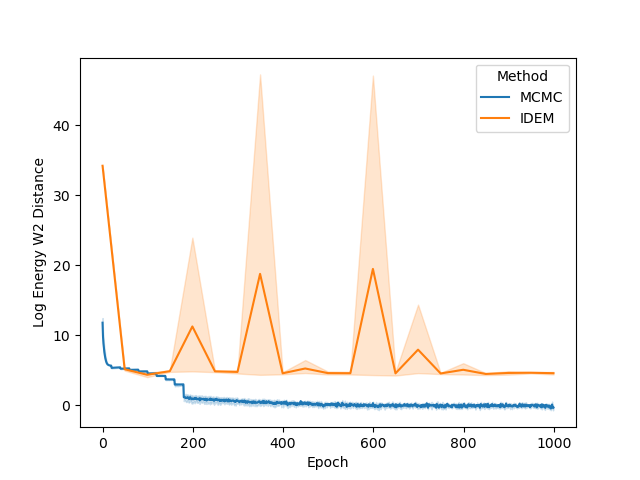
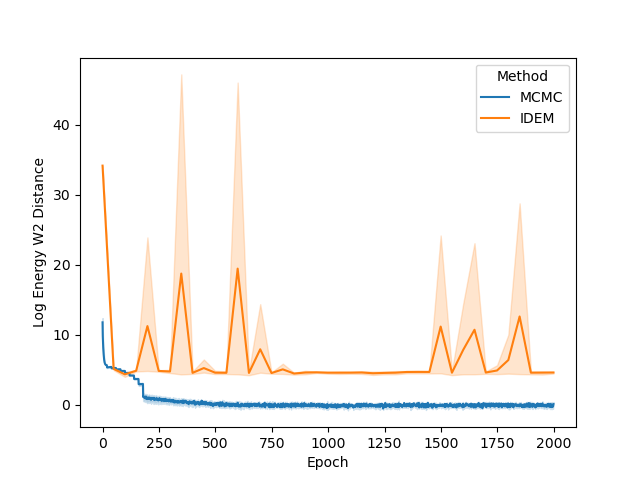
fix typos, add some lj55 data

diff --git a/_posts/2025-04-28-ebm-vs-mcmc.md b/_posts/2025-04-28-ebm-vs-mcmc.md
@@ -1,7 +1,7 @@
 ---
 layout: distill
 title: "Models trained with unnormalized density functions: A need for a course correction"
-description: Training a generative model with energy or unnormalized density functions is considered an important problem for physical systems such as molecules. This provides a path to train generative models to sample from the much desired Boltzmann distribution in situations of data scarcity. As of late, several generative frameworks have been proposed to target this problem. However, as we show in the following blog post, these methods have not been benchmarked sufficiently well against traditional Markov Chain Monte Carlo (MCMC) methods that are used to sample from energy functions. We take the example of two recent methods (IDEM and IEFM) and show that MCMC outperforms both methods in terms of number of energy evaluations and wall clock time on established baselines. With this, we suggest a “course correction” on the benchmarking of these models and comment on the utility and potential of generative models on these tasks. 
+description: Training a generative model with energy or unnormalized density functions is considered an important problem for physical systems such as molecules. This provides a path to train generative models to sample from the much desired Boltzmann distribution in situations of data scarcity. As of late, several generative frameworks have been proposed to target this problem. However, as we show in the following blog post, these methods have not been benchmarked sufficiently well against traditional Markov Chain Monte Carlo (MCMC) methods that are used to sample from energy functions. We take the example of two recent methods (iDEM and iEFM) and show that MCMC outperforms both methods in terms of number of energy evaluations and wall clock time on established baselines. With this, we suggest a “course correction” on the benchmarking of these models and comment on the utility and potential of generative models on these tasks. 
 date: 2025-04-28
 future: true
 htmlwidgets: true
@@ -62,15 +62,15 @@ Molecular dynamics (MD) simulations can sample the conformational dynamics of mo
 
 {% twitter https://x.com/adrian_roitberg/status/1793676191620018398 %}
 
-Yes that’s right, we know that for physical systems (molecules), the distribution of states (conformers) are characterized by their energy according the boltzmann distribution $$p(x) \propto exp(-\beta (E(x)))$$, where $$E(x)$$ is the energy of the state and $$\beta$$ is a constant dependant on temperature. This motivates a paradigm of training generative models that can take advantage of the energy function. 
+Yes that’s right, we know that for physical systems (molecules), the distribution of states (conformers) are characterized by their energy according the boltzmann distribution $$p(x) \propto exp(-\beta (\mathcal{E}(x)))$$, where $$\mathcal{E}(x)$$ is the energy of the state and $$\beta$$ is a constant dependant on temperature. This motivates a paradigm of training generative models that can take advantage of the energy function. 
 
-Recently, a surge of deep learning generative models has aimed to address the challenges of sampling and data scarcity by adopting innovative, data-free approaches <d-cite key="midgley2023fab"></d-cite><d-cite key="vargas2023dds"></d-cite><d-cite key="zhang2022pis"></d-cite><d-cite key="sadegh2024idem"></d-cite><d-cite key="woo2024iefm"></d-cite>. These methods, which one may describe as 'self-generative,' leverage a bootstrap procedure whereby the models generate their own data and rely on access to the energy function to refine their predictions. This paradigm is particularly exciting because it bypasses the traditional reliance on large datasets, making it a promising solution to long-standing barriers in the field. For this assessment, we focus on two such methods: iterative energy-based flow matching (iEFM)<d-cite key="woo2024iefm"></d-cite> and iterative denoising energy matching (iDEM)  <d-cite key="sadegh2024idem"></d-cite> that have shown state of the art performance on several toy physical systems.
+Recently, a surge of deep learning generative models has aimed to address the challenges of sampling and data scarcity by adopting innovative, data-free approaches<d-cite key="midgley2023fab"></d-cite><d-cite key="vargas2023dds"></d-cite><d-cite key="zhang2022pis"></d-cite><d-cite key="sadegh2024idem"></d-cite><d-cite key="woo2024iefm"></d-cite>. These methods, which one may describe as 'self-generative,' leverage a bootstrap procedure whereby the models generate their own data and rely on access to the energy function to refine their predictions. This paradigm is particularly exciting because it bypasses the traditional reliance on large datasets, making it a promising solution to long-standing barriers in the field. For this assessment, we focus on two such methods: iterative energy-based flow matching (iEFM)<d-cite key="woo2024iefm"></d-cite> and iterative denoising energy matching (iDEM)<d-cite key="sadegh2024idem"></d-cite> that have shown state of the art performance on several toy physical systems.
 
-A key consideration to take into account with generative models is to check if they outperform traditional methods for sampling from unnormalized density (energy) functions like Markov Chain Monte Carlo (MCMC). In this work, we compare IDEM and iEFM to MCMC on the same physical systems they were tested on and show that MCMC outperforms both methods while taking the same number of queries from the energy function. With this result, we suggest a “course correction” on the benchmarking of these models and propose different avenues where the development of these generative models would be useful.
+A key consideration to take into account with generative models is to check if they outperform traditional methods for sampling from unnormalized density (energy) functions like Markov Chain Monte Carlo (MCMC). In this work, we compare iDEM and iEFM to MCMC on the same physical systems they were tested on and show that MCMC outperforms both methods while taking the same number of queries from the energy function. With this result, we suggest a “course correction” on the benchmarking of these models and propose different avenues where the development of these generative models would be useful.
 
 ## Same Goals, Different Paths: Comparing iEFM and iDEM
 
-iEFM and iDEM are quite similar in their implementation. Both approximate a target vector field via self-normalized importance weights calculated by Monte Carlo estimation. In the case of iEFM, the target vector is a weighted average of the analytical vector field derived from Flow Matching theory. Whereas in iDEM, the target score field is computed as a weighted average of the gradients of the energy function. Note in the following equations that the equilibrium samples $x_T$ are denoted $x_1$ (T=1) for iEFM and $x_0$ (T=0) for iDEM:
+iEFM and iDEM are quite similar in their implementation. Both approximate a target vector field via self-normalized importance weights calculated by Monte Carlo estimation. In the case of iEFM, the target vector is a weighted average of the analytical vector field derived from Flow Matching theory. Whereas in iDEM, the target score field is computed as a weighted average of the gradients of the energy function. Note in the following equations that the equilibrium samples $x_T$ are denoted $x_1$ ($T=1$) for iEFM and $x_0$ ($T=0$) for iDEM:
 
 
 
@@ -105,7 +105,7 @@ To generate samples for the test systems with MCMC, we follow a 2 step procedure
 
 MCMC steps are implemented as simple Metropolis Monte Carlo steps with a symmetric Gaussian proposal. The step sizes for the MCMC chains are decided by trying to maximize the value $\alpha*s$, where $\alpha$ is the acceptance rate and $s$ is the standard deviation of the gaussian proposal function.
 
-SMC generates samples from a target density $p_T$ by creating a sequence of intermediate distributions that transition smoothly from the prior $p_0$ to $p_T$. At each step, samples are updated using a short MCMC chain (M steps), reweighted to match the next intermediate density, and resampled to maintain particle diversity. The intermediates are typically constructed through linear interpolation between the unnormalized log-density functions of $p_0$ and $p_T$, enabling a gradual and efficient transformation of the samples toward the target distribution. The detailed algorithm for the same is shown in the algorithm block below.
+SMC generates samples from a target density $p_T$ by creating a sequence of intermediate distributions that transition smoothly from the prior $p_0$ to $p_T$. At each step, samples are updated using a short MCMC chain ($M$ steps), reweighted to match the next intermediate density, and resampled to maintain particle diversity. The intermediates are typically constructed through linear interpolation between the unnormalized log-density functions of $p_0$ and $p_T$, enabling a gradual and efficient transformation of the samples toward the target distribution. The detailed algorithm for the same is shown in the algorithm block below.
 
 <div class="row mt-3">
     <div class="col-sm mt-3 mt-md-0">
@@ -134,20 +134,20 @@ The most challenging benchmarks are two Lennard-Jones (LJ) systems that model in
 Ground truth data for each system was generated using the following procedures:
 
 * (GMM) The test set consists of 1000 samples generated directly from the known mixture distribution using TORCH.RANDOM.SEED(0). Since this is a well-defined mixture of Gaussians, true samples can be generated exactly without approximation.  
-* (DW4) The ground truth data comes from MCMC samples provided by Klein et al. (2023) <d-cite key="klein2023equivariantflowmatching"></d-cite>. The paper explicitly notes that while this might not be perfect ground truth, it's considered reasonable for evaluation purposes. They specifically mention avoiding using an older dataset from Garcia Satorras et al. (2021) <d-cite key="satorras2022enequivariantgraphneural"></d-cite> because it was biased, being generated from a single MCMC chain.  
-* (LJ) Like DW-4, these systems use MCMC samples from Klein et al. (2023) as ground truth. The paper again notes they deliberately avoided using earlier datasets from Garcia Satorras et al. (2021) because these were biased, being generated from single MCMC chains and using only half of the energy function (ELJ/2, as the sum was only calculated for i \< j).
+* (DW4) The ground truth data comes from MCMC samples provided by Klein et al. (2023)<d-cite key="klein2023equivariantflowmatching"></d-cite>. The paper explicitly notes that while this might not be perfect ground truth, it's considered reasonable for evaluation purposes. They specifically mention avoiding using an older dataset from Garcia Satorras et al. (2021)<d-cite key="satorras2022enequivariantgraphneural"></d-cite> because it was biased, being generated from a single MCMC chain.  
+* (LJ) Like DW-4, these systems use MCMC samples from Klein et al. (2023) as ground truth. The paper again notes they deliberately avoided using earlier datasets from Garcia Satorras et al. (2021) because these were biased, being generated from single MCMC chains.
 
 A key point to note is that for the physical systems (DW-4, LJ-13, LJ-55), the ground truth data relies on MCMC sampling since exact sampling is intractable. Only the GMM system has true exact samples since its distribution is explicitly defined.
 
 ## Experiment Details
 
-IDEM was trained separately for all the 4 systems with 5 different seeds: GMM, DW4, LJ13, and LJ55. The IDEM models were trained using the default configs provided on their github repository: https://github.com/jarridrb/DEM. We only made one change so that our evaluations were consistent across the board. We ensured the evaluation batch size is equal to a 1000 for all the systems. 
+iDEM was trained separately for all the 4 systems with 5 different seeds: GMM, DW4, LJ13, and LJ55. The iDEM models were trained using the default configs provided on their github repository: https://github.com/jarridrb/DEM. We only made one change so that our evaluations were consistent across the board. We ensured the evaluation batch size is equal to a 1000 for all the systems. 
 
-iEFM was reimplemented to align as closely as possible with the algorithm described in the original manuscript. However, the absence of detailed experimental procedures and a publicly available codebase rendered a completely faithful reproduction unattainable. For instance, only the Optimal Transport (OT) variant of iEFM is evaluated here, as we were unable to successfully train Variance Exploding iEFM. OT-iEFM employs a different noise schedule for the conditional path probabilities compared to iDEM. Specifically, $P_t(x_t \mid x_1)$ uses a linear schedule $\sigma(t) = \sqrt{1 - (1 - \sigma_{\min})*t}$, while $q(x_1; x_t)$ employs $\ frac{\sigma(t)}{t}$, where $\frac{1}{t}$ is clamped to avoid division by zero. For the variance clamping, a max value of 80.0 and 1.3 was used for the GMM and DW4 systems, respectively. By virtue of the optimal transport formulation, OT-iEFM produces straight path trajectories at test time, requiring significantly fewer integration steps than iDEM—30 steps compared to 1000. Apart from these differences, the following hyperparameters were left unchanged to ensure consistency with iDEM: num_estimator_mc_samples, num_samples_to_generate_per_epoch, eval_batch_size, optimizer/lr. We also note that the original authors of iEFM did not report any results on the Lennard-Jones systems. In our experiments, we found that OT-iEFM was unable to train successfully on these systems.
+iEFM was reimplemented to align as closely as possible with the algorithm described in the original manuscript. However, the absence of detailed experimental procedures and a publicly available codebase rendered a completely faithful reproduction unattainable. For instance, only the Optimal Transport (OT) variant of iEFM is evaluated here, as we were unable to successfully train Variance Exploding iEFM. OT-iEFM employs a different noise schedule for the conditional path probabilities compared to iDEM. Specifically, $P_t(x_t \mid x_1)$ uses a linear schedule $\sigma(t) = \sqrt{1 - (1 - \sigma_{\min})*t}$, while $q(x_1; x_t)$ employs $\frac{\sigma(t)}{t}$, where $\frac{1}{t}$ is clamped to avoid division by zero. For the variance clamping, a max value of 80.0 and 1.3 was used for the GMM and DW4 systems, respectively. By virtue of the optimal transport formulation, OT-iEFM produces straight path trajectories at test time, requiring significantly fewer integration steps than iDEM—30 steps compared to 1000. Apart from these differences, the following hyperparameters were left unchanged to ensure consistency with iDEM: num_estimator_mc_samples, num_samples_to_generate_per_epoch, eval_batch_size, optimizer/lr. We also note that the original authors of iEFM did not report any results on the Lennard-Jones systems. In our experiments, we found that OT-iEFM was unable to train successfully on these systems.
 
-To run MCMC chains Klein et. al. (2023b) identified the best value of the MCMC step size for the DW4 and LJ13 systems as 0.5 and 0.025. We found the best value for LJ55 to be 0.0075 and GMMs to be 1.25. Therefore, these are the step sizes we used to run MCMC chains on these four systems. To ensure that our MCMC chains had exactly the same number of energy evaluations as IDEM and IEFM, we ran batch_size*num_mc_estimates chains in parallel, where num_mc_estimates is the number of MC estimates the methods used per sample. We then ensured that the number of MC steps we took are equal to inner_loop_iterations*epochs, where inner_loop_iterations is the number of iterations of training the models went through before testing. This resulted in 512,000 parallel chains for GMM, DW4 and LJ13 and 12,800 parallel chains for LJ55. We ran 5 sets of such parallel chains for each system. 
+To run MCMC chains Klein et al. (2023b) identified the best value of the MCMC step size for the DW4 and LJ13 systems as 0.5 and 0.025. We found the best value for LJ55 to be 0.0075 and GMMs to be 1.25. Therefore, these are the step sizes we used to run MCMC chains on these four systems. To ensure that our MCMC chains had exactly the same number of energy evaluations as IDEM and IEFM, we ran batch_size\*num_mc_estimates chains in parallel, where num_mc_estimates is the number of MC estimates the methods used per sample. We then ensured that the number of MC steps we took are equal to inner_loop_iterations\*epochs, where inner_loop_iterations is the number of iterations of training the models went through before testing. This resulted in 512,000 parallel chains for GMM, DW4 and LJ13 and 12,800 parallel chains for LJ55. We ran 5 sets of such parallel chains for each system. 
 
-The initial samples for the chains on the DW4 and GMM systems were sampled from a uniform prior, and the initial samples for the LJ systems were sampled from an isotropic gaussian, SMC involved creating 5 intermediate distributions for the DW4 and LJ13 and running the intermediate chains for 1000 steps each. LJ55 required 10 intermediate distributions with 2000 MC steps per distribution. GMMs required no intermediate distributions and no intermediate MCMC steps, just random sampling from a uniform prior and reweighting samples based on Boltzmann weights ($w(x) = \exp(-E(x))$) did the trick.
+The initial samples for the chains on the DW4 and GMM systems were sampled from a uniform prior, and the initial samples for the LJ systems were sampled from an isotropic gaussian, SMC involved creating 5 intermediate distributions for the DW4 and LJ13 and running the intermediate chains for 1000 steps each. LJ55 required 10 intermediate distributions with 2000 MC steps per distribution. GMMs required no intermediate distributions and no intermediate MCMC steps, just random sampling from a uniform prior and reweighting samples based on Boltzmann weights ($w(x) = \exp(-\mathcal{E}(x))$) did the trick.
 
 ## Evaluation Method 
 
@@ -175,14 +175,14 @@ For higher-dimensional systems, where the W2 metric becomes less intuitive to in
         {% include figure.html path="assets/img/2025-04-28-ebm-vs-mcmc/w2_lineplots-1.png" class="img-fluid" %}
     </div>
     <div class="col-sm mt-3 mt-md-0">
-        {% include figure.html path="assets/img/2025-04-28-ebm-vs-mcmc/W2_lineplots_time-1.png" class="img-fluid" %}
+        {% include figure.html path="assets/img/2025-04-28-ebm-vs-mcmc/w2_lineplots_time-1.png" class="img-fluid" %}
     </div>
 </div>
 <div class="caption">
     Figure 4. W2 score vs epoch and time in seconds for the methods on the GMM system.
 </div>
 
-For the GMM system we initialize our MC chains using a uniform distribution with limits of [-45,45]. Since we are generating 512,000 samples on this 2D surface, we find that it's sufficient to simply reweight the samples generated from the uniform prior according to their Boltzmann weights. We still continue to run MCMC chains after that for demonstration purposes. The figures above show that W2 scores of the runs as a function of number of training epochs and time. We define an “epoch” of a MCMC chain as the number of energy evaluations that are used to train an epoch of IDEM/IEFM. 
+For the GMM system we initialize our MC chains using a uniform distribution with limits of [-45,45]. Since we are generating 512,000 samples on this 2D surface, we find that it's sufficient to simply reweight the samples generated from the uniform prior according to their Boltzmann weights. We still continue to run MCMC chains after that for demonstration purposes. The figures above show that W2 scores of the runs as a function of number of training epochs and time. We define an “epoch” of a MCMC chain as the number of energy evaluations that are used to train an epoch of iDEM/iEFM. 
 
 <div class="caption">
     Table 1. Performance of all methods on the GMM system
@@ -195,7 +195,7 @@ For the GMM system we initialize our MC chains using a uniform distribution with
 | IEFM | 7.364 ± 0.955 |
 | MCMC | 4.219 ± 0.569 |
 
-The table above contains the mean and std deviation of the W2 metrics vs the test set with 25 batches of 1000 samples obtained from different methods. Note that the W2 values for IEFM are higher than what is reported in the original paper. This discrepancy may arise from using a larger number of batches to evaluate the models, as well as potential imperfections in our implementation of IEFM. “Ground Truth” are samples generated directly from the GMM, thereby showing what the ideal values of the W2 score is. We see that only the MCMC method is able to get a W2 score similar to that of the ground truth. We also see that samples generated from the MCMC chains also more closely represent the ground truth in the figure below.
+The table above contains the mean and std deviation of the W2 metrics vs the test set with 25 batches of 1000 samples obtained from different methods. Note that the W2 values for iEFM are higher than what is reported in the original paper. This discrepancy may arise from using a larger number of batches to evaluate the models, as well as potential imperfections in our implementation of iEFM. “Ground Truth” are samples generated directly from the GMM, thereby showing what the ideal values of the W2 score is. We see that only the MCMC method is able to get a W2 score similar to that of the ground truth. We also see that samples generated from the MCMC chains also more closely represent the ground truth in the figure below.
 
 
 <div class="row mt-3">
@@ -218,13 +218,13 @@ The table above contains the mean and std deviation of the W2 metrics vs the tes
     Figure 5. Example generated samples by all the methods on the GMM system.
 </div>
 
-The fact that this system is just in 2 dimensions makes sampling from the distribution very easy, Random sampling from a uniform prior and reweighting does the job, so it should not be considered a valid benchmark system for deep learning models for future works: 
+The fact that this system is just in 2 dimensions makes sampling from the distribution very easy, random sampling from a uniform prior and reweighting does the job, so it should not be considered a valid robust benchmark system for deep learning models for future works: 
 
 {% twitter https://x.com/FrankNoeBerlin/status/1829602620006416722%}
 
 ## Establishing new baselines for DW4, LJ13 and LJ55 with very long simulations
 
-For the DW4, LJ13 and LJ55 systems we don't have direct access to samples from the equilibrium distribution. Therefore, to create a strong “ground truth” baseline, we decided to run very long simulations on all of these systems and save the final state from all the simulations. For DW4 and LJ13, we ran 50,000 chains in parallel for a million steps, while for LJ55 we ran 12,800 chains for 2.5 million steps. This is much larger in contrast to the current test sets used by generative methods where the reference MC chain is run for about 200,000 steps. We assume that the combined end states of all these chains represent a distribution very close to the equilibrium distribution and can also be used as a new test set to benchmark on. The W2 and energy W2 scores of the chains with respect to the reference test set (Klein et. al) used by IDEM and IEFM as a function of the number of MC steps are shown in the figures below. The convergence of all the runs on these metrics provides further evidence that the samples are close to the equilibrium distributions.
+For the DW4, LJ13 and LJ55 systems we don't have direct access to samples from the equilibrium distribution. Therefore, to create a strong “ground truth” baseline, we decided to run very long simulations on all of these systems and save the final state from all the simulations. For DW4 and LJ13, we ran 50,000 chains in parallel for a million steps, while for LJ55 we ran 12,800 chains for 2.5 million steps. This is much larger in contrast to the current test sets used by generative methods where the reference MC chain is run for about 200,000 steps. We assume that the combined end states of all these chains represent a distribution very close to the equilibrium distribution and can also be used as a new test set to benchmark on. The W2 and energy W2 scores of the chains with respect to the reference test set (Klein et al.) used by iDEM and iEFM as a function of the number of MC steps are shown in the figures below. The convergence of all the runs on these metrics provides further evidence that the samples are close to the equilibrium distributions.
 
 <div class="caption">
     DW4
@@ -262,7 +262,7 @@ For the DW4, LJ13 and LJ55 systems we don't have direct access to samples from t
     </div>
 </div>
 <div class="caption">
-    Figure 6. Metrics of all the long MCMC simulation as a function energy evaluations (MC steps)
+    Figure 6. Metrics of all the long MCMC simulation as a function of energy evaluations (MC steps)
 </div>
 
 ## 4-particle Double-Well Potential
@@ -299,7 +299,7 @@ The energy W2 distance plots (Figure 8) further underscore the stark differences
     Table 2. Performance of all methods on the DW4 system
 </div>
 
-|  |  |Old Reference (klein et. al)  |  |  |New Reference (Long MCMC)  |  |
+|  |  |Old Reference (Klein et al.)  |  |  |New Reference (Long MCMC)  |  |
 | :---- | :---- | :---- | :---- | :---- | :---- | :---- |
 | Method | W2 | Energy W2 | Interatomic distance w2 | W2 | Energy W2 | Interatomic distance w2 |
 | Long MCMC | 2.080 ± 0.030 | 0.157 ± 0.045 | 0.073 ± 0.012 | 1.883 ± 0.023 | 0.144 ± 0.044 | 0.017 ± 0.007 |
@@ -307,7 +307,7 @@ The energy W2 distance plots (Figure 8) further underscore the stark differences
 | IEFM | 2.115 ± 0.035 | 3.852 ± 0.959 | 0.214 ± 0.014 | 1.928 ± 0.029 | 3.879 ± 0.909 | 0.145 ± 0.011 |
 | MCMC | 2.068 ± 0.028 | 0.148 ± 0.048 | 0.067 ± 0.012 | 1.873 ± 0.032 | 0.132 ± 0.030 | 0.022 ± 0.012 |
 
-The quantitative results (Table 2) and distribution plots (Figure 9, 10) provide the most comprehensive insight into performance. Across all metrics, MCMC consistently achieves the best scores when compared to both old and new reference data. The distribution plots reveal key details: while iDEM captures the general shape of the interatomic distance distribution relatively well it still mismatches the peak height on the right. iEFM exhibits even more clear deviations in peak heights and locations. The energy distribution plot paints an even clearer picture—MCMC aligns closely with the reference distribution, whereas iEFM shows substantial discrepancies, particularly in the higher energy regions.
+The quantitative results (Table 2) and distribution plots (Figure 9, 10) provide the most comprehensive insight into performance. Across all metrics, MCMC consistently achieves the best scores when compared to both old and new reference data. The distribution plots reveal key details: while iDEM captures the general shape of the interatomic distance distribution relatively well it still mismatches the peak height on the right. iEFM exhibits even more clear deviations in peak heights and locations. The energy distribution plot paints an even clearer picture—MCMC aligns closely with the reference distribution, whereas iDEM and iEFM show substantial discrepancies, particularly in the higher energy regions.
 
 <div class="row mt-3">
     <div class="col-sm mt-3 mt-md-0">
@@ -355,13 +355,13 @@ These findings suggest that while neural methods like iDEM and iEFM represent in
     Figure 12. Log of Energy W2 vs epoch and time in seconds for the methods on the LJ13 system.
 </div>
 
-On the LJ13 system we observe that the MCMC runs actually get a higher W2 score than the IDEM runs (Figure 11). However, we posit that for higher dimensional systems, W2 between positions of data samples is not a good measure for the distance between two distributions. This is because even the long MCMC chains, having run for a million steps, do not attain a better W2 score than IDEM. In fact, from Figure 6, we can see that the W2 score for the long MC chain stabilizes and converges at a value of 4.31. Furthermore, both the short and the long MCMC chains have a much lower energy W2 value when compared to the reference test (klein et. al) than iDEM, which indicates that they are better predictors of ensemble properties despite having a higher W2 score.
+On the LJ13 system we observe that the MCMC runs actually get a higher W2 score than the IDEM runs (Figure 11). However, we posit that for higher dimensional systems, W2 between positions of data samples is not a good measure for the distance between two distributions. This is because even the long MCMC chains, having run for a million steps, do not attain a better W2 score than IDEM. In fact, from Figure 6, we can see that the W2 score for the long MC chain stabilizes and converges at a value of 4.31. Furthermore, both the short and the long MCMC chains have a much lower energy W2 value when compared to the reference test (Klein et al.) than iDEM, which indicates that they are better predictors of ensemble properties despite having a higher W2 score.
 
 <div class="caption">
     Table 3. Performance of all methods on the LJ13 system
 </div>
 
-|  |  | Old Reference (klein et. al) |  |  | New Reference (Long MCMC) |  |
+|  |  | Old Reference (Klein et al.) |  |  | New Reference (Long MCMC) |  |
 | :---- | :---- | :---- | :---- | :---- | :---- | :---- |
 | Method | W2 | Energy W2 | Interatomic distance w2 | W2 | Energy W2 | Interatomic distance w2 |
 | Long MCMC | 4.312 ± 0.007 | 0.457 ± 0.120 | 0.004 ± 0.002 | 4.298 ± 0.007 | 0.544 ± 0.167 | 0.005 ± 0.002 |
@@ -388,13 +388,13 @@ In Table 3, we also benchmark both the methods on the test set generated from th
     Figure 14. Distribution of energies obtained from all the methods on the LJ13 system. 
 </div>
 
-Finally, in the histogram plots, it's clear that the IDEM energy plot is right shifted as compared to both the reference sets that have good agreement among themselves. Considering all the metrics and distributions, we conclude that MCMC outperforms iDEM on this system. 
+Finally, in the histogram plots, it's clear that the IDEM energy plot is right shifted as compared to both the reference sets that have good agreement among themselves and with the shorter MCMC chains. iDEM also has lesser agreeement on the interatomic distance histogram as compared to the other methods. Considering all the metrics and distributions, we conclude that MCMC outperforms iDEM on this system. 
 
 ## 55-Particle Lennard Jones System
 
 <div class="row mt-3">
     <div class="col-sm mt-3 mt-md-0">
-        {% include figure.html path="assets/img/2025-04-28-ebm-vs-mcmc/lj55_w2_lineplots-1.png" class="img-fluid" %}
+        {% include figure.html path="assets/img/2025-04-28-ebm-vs-mcmc/lj55_w2_lineplots_epoch.png" class="img-fluid" %}
     </div>
     <div class="col-sm mt-3 mt-md-0">
         {% include figure.html path="assets/img/2025-04-28-ebm-vs-mcmc/lj55_w2_lineplots_time.png" class="img-fluid" %}
@@ -420,17 +420,18 @@ Finally, in the histogram plots, it's clear that the IDEM energy plot is right s
     Table 4. Performance of all methods on the LJ55 system
 </div>
 
-|  |  | Old Reference (klein et. al) |  |  | New Reference (Long MCMC) |  |
+|  |  | Old Reference (Klein et al.) |  |  | New Reference (Long MCMC) |  |
 | :---- | :---- | :---- | :---- | :---- | :---- | :---- |
 | Method | W2 | Energy W2 | Interatomic distance w2 | W2 | Energy W2 | Interatomic distance w2 |
 | Long MCMC | 15.923 ± 0.009 | 0.931 ± 0.243 | 0.001 ± 0.0006 | 15.779 ± 0.007 | 0.680 ± 0.211 | 0.001 ± 0.0005 |
 | MCMC | 16.48 ± 0.0497 | 0.872 ± 0.237 | 0.001 ± 0.0005 | 16.42 ± 0.026 | 0.907 ± 0.391 | 0.002 ± 0.0009 |
 
-At the time of submitting this blog for review, we have not yet completed iDEM training runs on the LJ55 system due to the unexpectedly long training time—approximately 2.5 days on an L40 GPU for a single model. However, we provide interim results, including W2 and Energy W2 metric values plotted over 1000 epochs and wall-clock time, as shown in the figures below. These figures reveal trends consistent with previous systems, with MCMC outperforming iDEM across relevant metrics and exhibiting closer alignment with the ground truth distribution. Once the training runs are complete, we will update this blog with the final values and histogram plots to provide a comprehensive comparison.
+At the time of submitting this blog for review, we have not yet completed iDEM training runs on the LJ55 system due to the unexpectedly long training time—approximately 2.5 days on an L40 GPU for a single model. However, we provide interim results, including W2 and Energy W2 metric values plotted over 1000 epochs and wall-clock time, as shown in the figures above. These figures reveal trends consistent with previous systems, with MCMC outperforming iDEM across relevant metrics and exhibiting closer alignment with the ground truth distribution. Once the training runs are complete, we will update this blog with the final values and histogram plots to provide a comprehensive comparison.
 
 ## Closing thoughts \- the role that these models have to play
 
-Our analysis offers a sobering assessment of the current state of neural network-based samplers for molecular systems. Despite the growing interest in methods like iDEM and iEFM, our results show that these approaches fail to outperform well-tuned MCMC methods in terms of both sampling quality and computational efficiency. This finding is particularly significant because, for neural samplers to justify their additional complexity and computational overhead, they must demonstrate clear and consistent advantages over traditional methods—a standard that these approaches have yet to meet.
-However, this critique should not be viewed as a wholesale rejection of neural approaches in molecular sampling. Rather, it suggests a needed shift in research focus. One promising direction lies in leveraging neural networks' capacity for transfer learning. While MCMC kernels are often system-specific, requiring careful tuning for each new molecular system, neural networks could potentially learn generalizable sampling strategies that transfer across different molecular systems. This transferability could provide a compelling advantage over traditional MCMC methods, even if the absolute sampling efficiency for any single system remains lower. This has already been demonstrated in works such as TimeWarp<d-cite key="klein2023timewarp"></d-cite>and Transferable Boltzmann Generators <d-cite key="klein2024tbg"></d-cite>. 
+Our analysis offers a sobering assessment of the current state of neural network-based samplers for molecular systems. Despite the growing interest in methods like iDEM and iEFM, our results show that these approaches fail to outperform well-tuned MCMC methods in terms of both sampling quality and computational efficiency. This finding is particularly significant because, for neural samplers to justify their additional complexity and computational overhead, they must demonstrate clear and consistent advantages over traditional methods—a standard that these approaches have yet to meet. A possible solution to having more computationally efficient method would be to learn a more approximate distribution to a complicated energy function and attaining the right distribution as is done by Klein et al.<d-cite key="klein2023equivariantflowmatching"></d-cite>.  
 
-A critical limitation of current neural approaches like iEFM and iDEM lies in their reliance on weighted averages of noisy samples. This becomes particularly problematic when dealing with real molecular systems, where energy landscapes can be extremely steep and sampling noise can lead to explosive gradients. Future work might address this by reconsidering how noise is incorporated into these models - for instance, by defining noise on a Riemannian manifold that respects the geometric constraints of molecular systems <d-cite key="jing2023torsdiff"></d-cite>. Such modifications could help stabilize training and improve sampling efficiency while maintaining the potential benefits of neural approaches.
+However, this critique should not also be viewed as a wholesale rejection of such neural approaches in molecular sampling. Rather, it suggests a needed shift in research focus. One promising direction lies in leveraging neural networks' capacity for transfer learning. While MCMC methods are often system-specific, and require long chains on every new system, neural networks could potentially learn generalizable sampling strategies that transfer across different molecular systems. This transferability could provide a compelling "inference time" advantage over traditional MCMC methods, even if the training cost is significantly higher than running a MCMC chain on a single system. This has already been demonstrated in works such as TimeWarp<d-cite key="klein2023timewarp"></d-cite>and Transferable Boltzmann Generators<d-cite key="klein2024tbg"></d-cite>. 
+
+A critical limitation of current neural approaches like iEFM and iDEM lies in their reliance on weighted averages of noisy samples. This becomes particularly problematic when dealing with real molecular systems, where energy landscapes can be extremely steep and sampling noise can lead to explosive gradients. Future work might address this by reconsidering how noise is incorporated into these models - for instance, by defining noise on a Riemannian manifold that respects the geometric constraints of molecular systems<d-cite key="jing2023torsdiff"></d-cite>. Such modifications could help stabilize training and improve sampling efficiency while maintaining the potential benefits of neural approaches.
